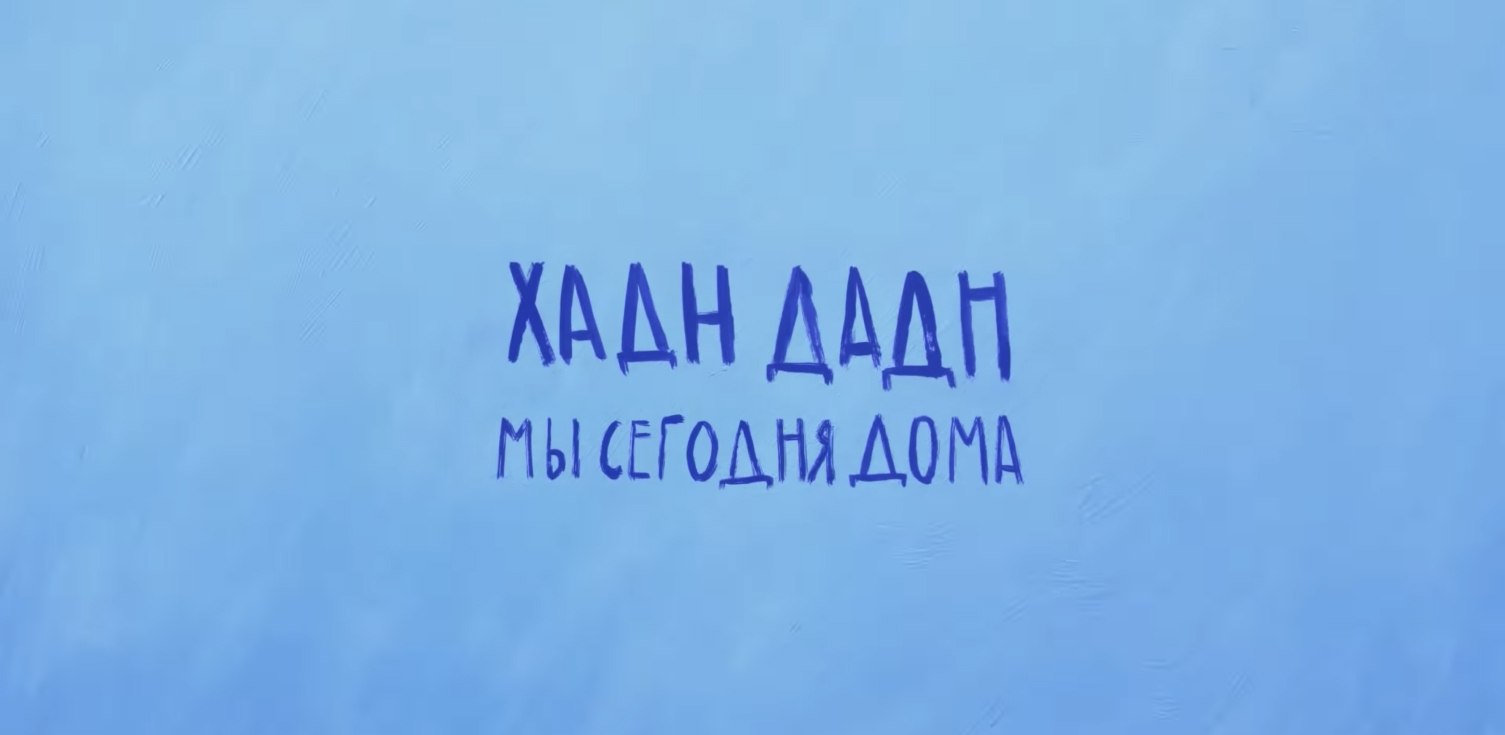
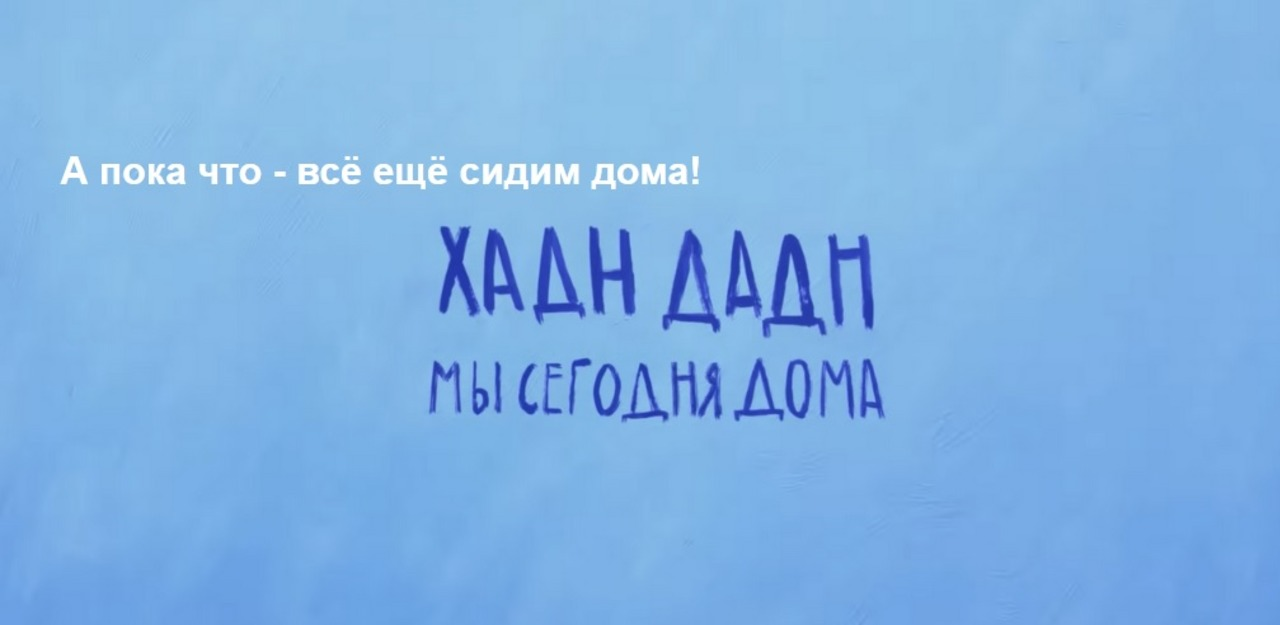
Закостылил видео.

Changed region(s): [[0.3125, 0.3344, 0.6875, 0.6688], [0.0312, 0.2432, 0.5625, 0.304]]

diff --git a/index.html b/index.html
@@ -107,12 +107,11 @@
 
         <!-- блок с видео -->
         <section class="video">
-            <p class="video__text">А&nbsp;пока что&nbsp;- всё ещё сидим дома!</p>
-            <video class="video__file" poster="./images/video.jpg" preload controls tabindex="1">
+            <video href="#video" class="video__file" poster="./images/video.jpg" preload controls tabindex="1">
               <source src="./video/Хадн_дадн_—_Мы_сегодня_дома[ZeConverter.net].mp4" type='video/mp4; codecs="avc1.42E01E, mp4a.40.2"' />
               <source src="./video/Хадн_дадн_—_Мы_сегодня_дома_ZeConverter.net_.webm" type='video/webm; codecs="vp8, vorbis"' />
               <source src="./video/Хадн_дадн_—_Мы_сегодня_дома_ZeConverter.net__1.ogv" type='video/ogg; codecs="theora, vorbis"' />
-             Тег video не поддерживается вашим браузером.
+             #video Тег video не поддерживается вашим браузером.
             </video>
         </section>
     </main>

diff --git a/blocks/video/__text/video__text.css b/blocks/video/__text/video__text.css
@@ -5,7 +5,7 @@
     color: white;
     font-size: 38px;
     font-family: Arial, Helvetica, sans-serif;
-    z-index: 2;
+    z-index: 1;
     font-weight: bold;
     max-width: 635px;
 }

diff --git a/blocks/video/video.css b/blocks/video/video.css
@@ -3,5 +3,4 @@
     flex-direction: column;
     max-width: 1280px;
     position: relative;
-    height: 626px;
 }

diff --git a/blocks/video/__file/video__file.css b/blocks/video/__file/video__file.css
@@ -1,4 +1,4 @@
 .video__file {
-    max-width: 100%;
-    z-index: 1;
+    width: 100%;
+    height: 625px;
 }
